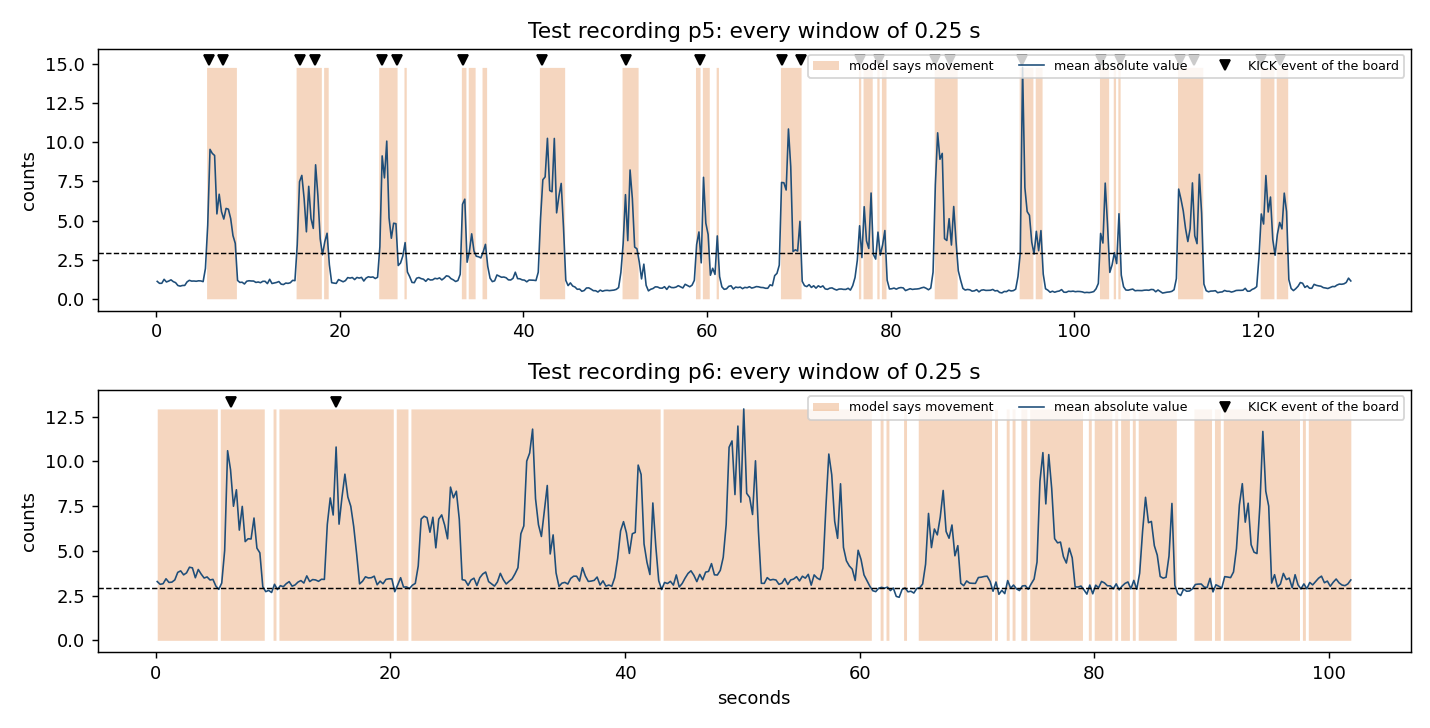
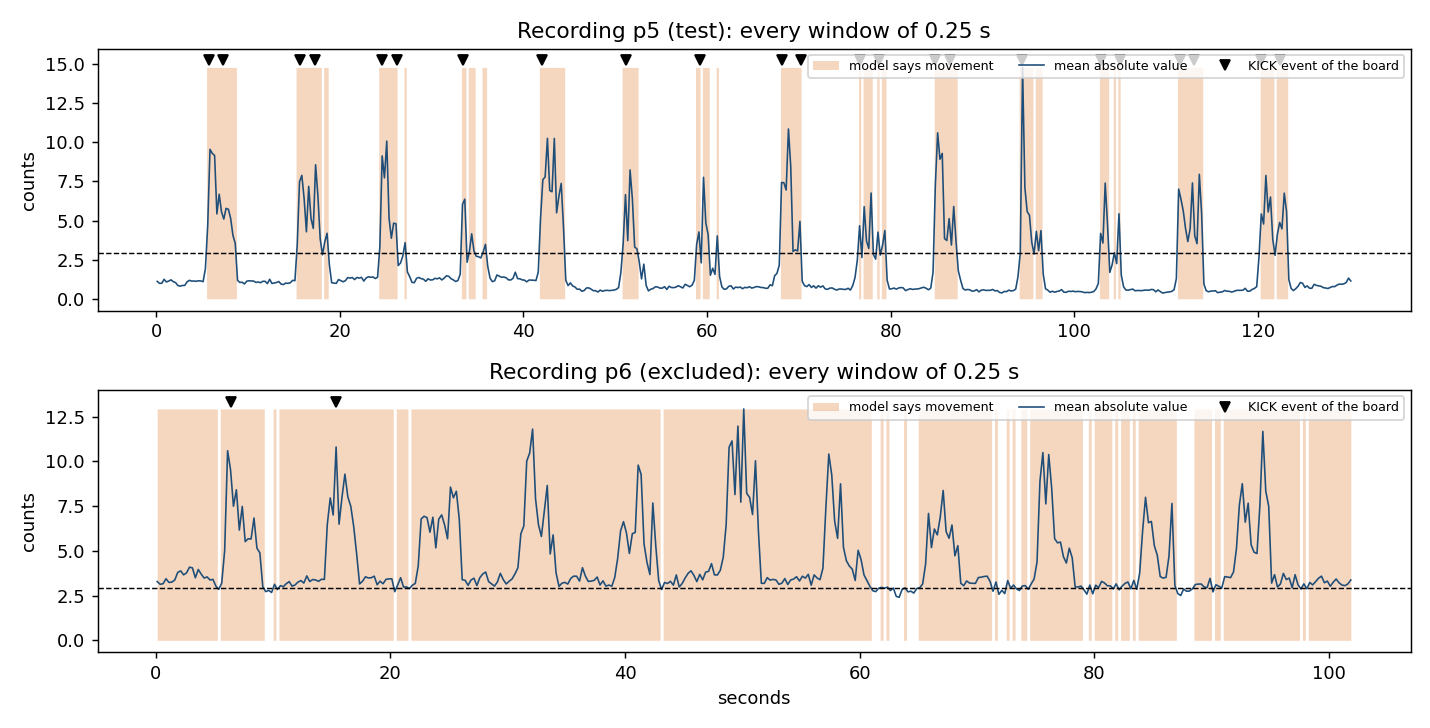
Results without p6

Changed region(s): [[0.3385, 0.4835, 0.7077, 0.544], [0.3692, 0.0302, 0.7077, 0.0604]]

diff --git a/code/evaluate.py b/code/evaluate.py
@@ -24,6 +24,7 @@ def row(name, s):
             f"| {s['rest']:.0%} ({s['tn']}/{s['tn'] + s['fp']}) |")
 
 train, test = recordings("train"), recordings("test")
+P6 = "2026-11-19_112400_p6"          # excluded after the test was opened; shown apart
 data = {n: windows(n) for n in train + test}
 stack = lambda names: (np.vstack([data[n][0] for n in names]), np.concatenate([data[n][1] for n in names]))
 HEAD = "| Recording | Windows | Accuracy | Balanced accuracy | Movement found | Rest found |\n|---|---|---|---|---|---|"
@@ -77,7 +78,7 @@ for a, n in zip(np.atleast_1d(ax), tl):
     a.set_title(f"Recording {n[-2:]}{' (excluded)' if n == P6 else ' (test)'}: every window of 0.25 s"); a.set_ylabel("counts"); a.legend(fontsize=7, loc="upper right", ncol=3)
 np.atleast_1d(ax)[-1].set_xlabel("seconds"); fig.tight_layout(); fig.savefig(os.path.join(ROOT, "figures", "results_test_timeline.png"), dpi=130)
 
-P6 = "2026-11-19_112400_p6"; F6, L6 = windows(P6); s6 = scores(L6, model.predict(F6))
+F6, L6 = windows(P6); s6 = scores(L6, model.predict(F6))
 out += ["## 4. Recording p6, excluded after the test was opened", "", HEAD, row("p6", s6), row("p5 + p6", scores(np.concatenate([Le, L6]), np.concatenate([pe, model.predict(F6)]))), "",
         "p6 was a test recording when we opened the test on 2026-11-23. After seeing it we took it out: its rest level is about 3.5 counts (0.6 to 2.1 in the others), and the board marked only 2 of about 12 visible contractions, so its labels are wrong. We show its score here so that nothing is hidden. Taking a recording out after seeing the test makes the test score look better than a fair one.", ""]
 out += ["## What this shows", "",

diff --git a/RESULTS.md b/RESULTS.md
@@ -25,21 +25,27 @@ Each row: the threshold is set with the other two recordings, then checked on th
 | p4 | 251 | 95% | 90% | 80% (48/60) | 99% (190/191) |
 | all | 669 | 83% | 86% | 91% (126/138) | 81% (430/531) |
 
-## 3. Test (recordings the model never saw: p5 and p6)
+## 3. Test (a recording the model never saw: p5)
 
 | Recording | Windows | Accuracy | Balanced accuracy | Movement found | Rest found |
 |---|---|---|---|---|---|
 | p5 | 357 | 93% | 87% | 78% (54/69) | 97% (278/288) |
+| all | 357 | 93% | 87% | 78% (54/69) | 97% (278/288) |
+
+## 4. Recording p6, excluded after the test was opened
+
+| Recording | Windows | Accuracy | Balanced accuracy | Movement found | Rest found |
+|---|---|---|---|---|---|
 | p6 | 390 | 13% | 56% | 100% (6/6) | 12% (45/384) |
-| all | 747 | 51% | 64% | 80% (60/75) | 48% (323/672) |
+| p5 + p6 | 747 | 51% | 64% | 80% (60/75) | 48% (323/672) |
+
+p6 was a test recording when we opened the test on 2026-11-23. After seeing it we took it out: its rest level is about 3.5 counts (0.6 to 2.1 in the others), and the board marked only 2 of about 12 visible contractions, so its labels are wrong. We show its score here so that nothing is hidden. Taking a recording out after seeing the test makes the test score look better than a fair one.
 
 ## What this shows
 
-- Training 95 %, validation 86 %, test 64 % (balanced accuracy). The goal is more than 75 % on recordings never seen. p5 passes (87 %), p6 does not (56 %).
-- Why p6 fails: its signal at rest is about 3.3 counts, above the threshold of 2.93, so the model says movement almost all the time. In p3 to p5 rest is 0.7 to 1.9 counts. One fixed threshold does not survive a change of the rest level.
-- The labels of p6 are also wrong: the figure shows about 12 contractions, and the board wrote only 2 KICK events. Windows inside real contractions count as rest here. So the true score of p6 is unknown.
-- The test recordings were opened on 2026-11-23. We do not tune the model on them. They are from the same session as the training recordings, so the final test will be new sessions with new electrodes.
-- Next: labels from a cue video instead of the board, and a size measured against the rest level of each recording (a short calibration at rest), checked with validation only.
+- Training 95%, validation 86%, test 87% (balanced accuracy, test = p5 only). With p6 the test was 64 %.
+- One fixed threshold works while the rest level stays like in training. It fails when the rest level rises, as in p6. New electrodes will change the rest level, so the threshold must be measured against a short calibration at rest.
+- The labels come from the KICK events of the board, not from a cue. The final test needs labels from a cue video and new sessions with new electrodes.
 
 ## Figures
 
